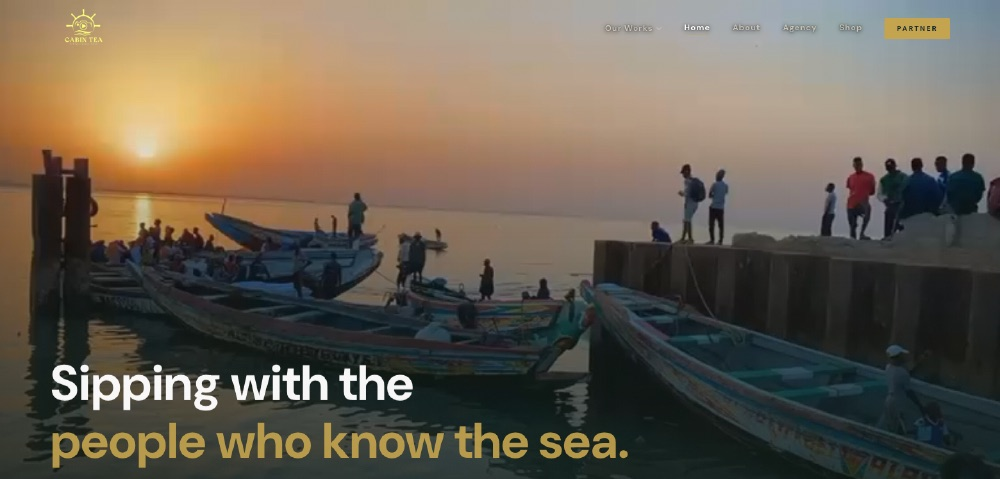
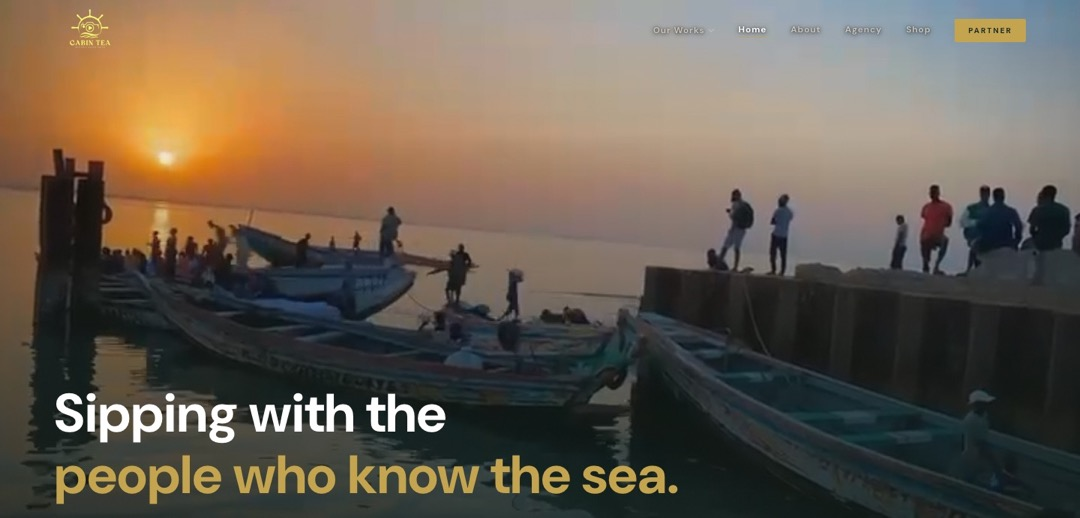
Add real project links, two GoGMI projects, three screenshots
Replaces the inferred placeholders with live URLs and repositories now
that the deployments are known, and corrects two names: GoGMI is the
Gulf of Guinea Maritime Institute, and WatchWithMe ships as Jesley.

Adds the GoGMI Intranet and the GoGMI institute site as their own
entries, and captures screenshots for the LMS, the intranet and Jesley.

Staay and the GoGMI institute site keep image: null — both open with a
click-to-dismiss interstitial that no capture timing avoids, so they
need a manual screenshot. Rows without an image render no preview.

diff --git a/src/content.js b/src/content.js
@@ -44,42 +44,42 @@ export const links = [
 export const projects = [
   {
     id: '001',
-    title: 'GoGMI LMS',
+    title: 'GoGMI Learning Platform',
     year: '2026',
-    role: 'Full-stack', // TODO: solo? team? client name?
+    role: 'Full-stack',
     blurb:
-      'A learning management system built end to end — course delivery on the front, a hardened Express API behind it. Role-based access, JWT sessions, file uploads and request validation at every boundary.',
+      'The learning management system for the Gulf of Guinea Maritime Institute — professional maritime courses, certifications and CPD point tracking. Course delivery on the front, a hardened Express API behind it: role-based access, JWT sessions, file uploads and request validation at every boundary.',
     stack: ['React', 'Vite', 'Express', 'Prisma', 'PostgreSQL', 'JWT', 'Zod'],
-    href: null, // TODO: live URL
-    repo: null, // TODO: repo URL
-    image: null, // TODO: needs Postgres + env to run, so I could not capture it
+    href: 'https://lms.gogmi.org.gh',
+    repo: 'https://github.com/GoGMI-Ghana/GoGMI-LMS',
+    image: '/projects/lms.jpg',
     note: 'Frontend, API and schema.',
   },
   {
     id: '002',
-    title: 'WatchWithMe',
+    title: 'GoGMI Intranet',
     year: '2026',
     role: 'Full-stack',
     blurb:
-      'Real-time watch parties. Everyone in a room stays frame-aligned on the same video — the hard part is not the player, it is reconciling clocks and late joiners over sockets without the room drifting apart.',
-    stack: ['React', 'Socket.IO', 'Express', 'Supabase', 'YouTube API'],
-    href: null,
-    repo: null,
-    image: null, // TODO: needs Supabase credentials to run
-    note: 'Realtime sync, rooms, presence.',
+      'The internal portal the institute runs on — staff collaboration, work management and organisation-wide updates behind a single sign-in. Built as a separate frontend and backend so the intranet could evolve without touching the public site.',
+    stack: ['React', 'Vite', 'Express', 'Node', 'PostgreSQL'],
+    href: 'https://intranet.gogmi.org.gh',
+    repo: 'https://github.com/ellisegrant/Gogmi-Intranet',
+    image: '/projects/intranet.jpg',
+    note: 'Separate frontend and backend services.',
   },
   {
     id: '003',
-    title: 'Staay',
+    title: 'Jesley',
     year: '2026',
-    role: 'Frontend',
+    role: 'Full-stack',
     blurb:
-      'A 3D web experience rendered in the browser with React Three Fiber — scene composition, animation choreography and state kept light enough to hold sixty frames on a mid-range phone.',
-    stack: ['React Three Fiber', 'Three.js', 'Zustand', 'Framer Motion', 'Supabase'],
-    href: null,
-    repo: null,
-    image: null, // TODO: needs Supabase credentials to run
-    note: 'WebGL, motion, performance budget.',
+      'Watch together, anywhere. Everyone in a room stays frame-aligned on the same video — the hard part is not the player, it is reconciling clocks and late joiners over sockets without the room drifting apart. Guest access means a room is one link away, no account required.',
+    stack: ['React', 'Socket.IO', 'Express', 'Supabase', 'YouTube API'],
+    href: 'https://jesley.vercel.app',
+    repo: 'https://github.com/ellisegrant/WatchWithMe-Frontend',
+    image: '/projects/watchwithme.jpg',
+    note: 'Realtime sync, rooms, presence.',
   },
   {
     id: '004',
@@ -89,23 +89,53 @@ export const projects = [
     blurb:
       'A podcast site with real routes, per-episode social cards generated at build time, and an editorial layout that gives long-form show notes room to breathe.',
     stack: ['Vite', 'React Router', 'Tailwind', 'Vercel'],
-    href: 'https://www.thecabintea.com/',
-    repo: null,
+    href: 'https://www.thecabintea.com',
+    repo: 'https://github.com/ellisegrant/TheCabinteaPodcast',
     image: '/projects/cabintea.jpg',
     note: 'Build-time meta generation.',
   },
   {
     id: '005',
+    title: 'Staay',
+    year: '2026',
+    role: 'Frontend',
+    blurb:
+      'A beauty and fashion storefront with a 3D web experience rendered in the browser through React Three Fiber — scene composition, animation choreography and state kept light enough to hold sixty frames on a mid-range phone.',
+    stack: ['React Three Fiber', 'Three.js', 'Zustand', 'Framer Motion', 'Supabase'],
+    href: 'https://staayonline.com',
+    repo: 'https://github.com/staaybystaay/staayonline',
+    // TODO: needs a screenshot — the live site opens with a mailing-list modal
+    // that blocks automated capture. Drop a 1440x690 image at this path.
+    image: null,
+    note: 'WebGL, motion, performance budget.',
+  },
+  {
+    id: '006',
     title: 'Inoxcel',
     year: '2026',
     role: 'Frontend',
     blurb:
       'Marketing site for a delivery consultancy. Every service is a real, linkable route rather than a client-side tab switch — shareable, indexable, and correct with the back button.',
     stack: ['React', 'React Router v7', 'Vite'],
-    href: null, // TODO: live URL — captured from a local build
-    repo: null,
+    href: 'https://inoxcel-site.vercel.app',
+    repo: 'https://github.com/ellisegrant/inoxcel-site-',
     image: '/projects/inoxcel.jpg',
     note: 'Routing architecture, page system.',
+  },
+  {
+    id: '007',
+    title: 'GoGMI Institute Site',
+    year: '2026',
+    role: 'Frontend',
+    blurb:
+      'The public face of the Gulf of Guinea Maritime Institute — the organisation, its areas of work and its research, presented for a policy audience rather than a consumer one.',
+    stack: ['React', 'Vite', 'Framer Motion', 'Radix UI', 'Tailwind'],
+    href: 'https://gogmi.org.gh',
+    repo: 'https://github.com/ellisegrant/Gogmi-v.20',
+    // TODO: needs a screenshot — the homepage opens with a full-screen event
+    // announcement that blocks automated capture.
+    image: null,
+    note: 'Public site for the institute.',
   },
 ]
 
